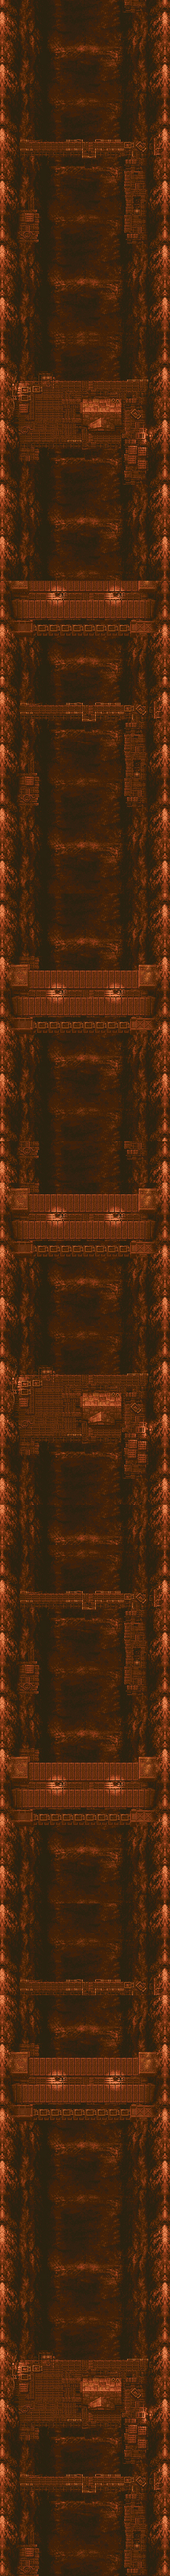
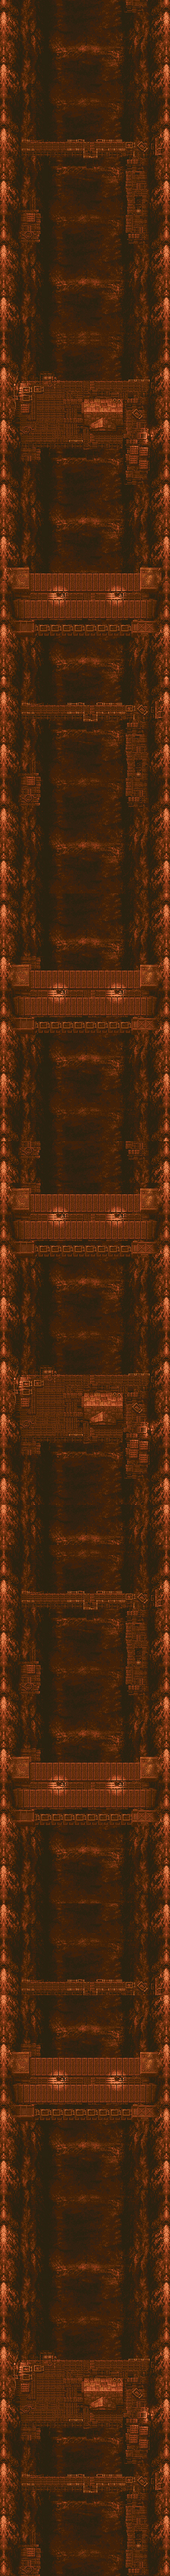
Added PLATFORMS animation

Changed region(s): [[0.0, 0.0, 1.0, 1.0], [0.4487, 0.5912, 0.5385, 0.6535], [0.4786, 0.0311, 0.5385, 0.0622]]

diff --git a/GunBird - CodedDreams/ModuleSceneMine.cpp b/GunBird - CodedDreams/ModuleSceneMine.cpp
@@ -45,6 +45,7 @@ bool ModuleSceneMine::Start()
 	graphics_background_text = App->textures->Load("assets/maps/mine_background.png");
 	graphics_above_background_text = App->textures->Load("assets/maps/above mine_background.png");
 	graphics_above_background_anims_text = App->textures->Load("assets/maps/above_mine_bg_anims.png");
+	graphics_bg_platfroms_text = App->textures->Load("assets/maps/bg_platforms.png");
 
 	App->render->camera.x  = 0;
 	App->render->camera.y = -3210;
@@ -164,7 +165,7 @@ bool ModuleSceneMine::Start()
 	App->enemies->AddEnemy(BOSS1_BASE, 0, 3125);
 	}
 
-	//LEDS AND BLOWS
+	//LEDS AND BLOWS, PLATFROMS
 	{
 		//LED 1
 		upper_led1.PushBack({ 1, 1, 16, 5 });
@@ -229,6 +230,18 @@ bool ModuleSceneMine::Start()
 		upper_blow2.PushBack({ 165, 65, 25, 34 });
 		upper_blow2.speed = 0.2f;
 		upper_blow2.loop = true;
+
+		//PLATFORMS
+		bg_platfroms.PushBack({ 0, 0, 216, 107 });
+		bg_platfroms.PushBack({ 216, 0, 216, 107 });
+		bg_platfroms.PushBack({ 0, 107, 216, 107 });
+		bg_platfroms.PushBack({ 216, 107, 216, 107 });
+		bg_platfroms.PushBack({ 0, 214, 216, 107 });
+		bg_platfroms.PushBack({ 216, 214, 216, 107 });
+		bg_platfroms.PushBack({ 0, 321, 216, 107 });
+		bg_platfroms.PushBack({ 216, 321, 216, 107 });
+		bg_platfroms.speed = 0.05f;
+		bg_platfroms.loop = true;
 	}
 	
 	LOG("Loading music");
@@ -266,6 +279,11 @@ bool ModuleSceneMine::CleanUp()
 		App->textures->Unload(graphics_above_background_anims_text);
 		graphics_above_background_anims_text = nullptr;
 	}
+	if (graphics_bg_platfroms_text != nullptr)
+	{
+		App->textures->Unload(graphics_bg_platfroms_text);
+		graphics_bg_platfroms_text = nullptr;
+	}
 	
 	App->audio->Stop();
 	App->ui->Disable();
@@ -292,7 +310,15 @@ update_status ModuleSceneMine::Update()
 	
 	// Draw everything --------------------------------------	
 	App->render->Blit(graphics_background_text, App->render->camera.x, App->render->camera.y, &background_rect, 0.75f); // back of the room
-	
+	{
+		//PLATFORMS
+		App->render->Blit(graphics_bg_platfroms_text, App->render->camera.x + 6, App->render->camera.y + 773, &bg_platfroms.GetCurrentFrame(), 0.75f);
+		App->render->Blit(graphics_bg_platfroms_text, App->render->camera.x + 6, App->render->camera.y + 1318, &bg_platfroms.GetCurrentFrame(), 0.75f);
+		App->render->Blit(graphics_bg_platfroms_text, App->render->camera.x + 6, App->render->camera.y + 1625, &bg_platfroms.GetCurrentFrame(), 0.75f);
+		App->render->Blit(graphics_bg_platfroms_text, App->render->camera.x + 6, App->render->camera.y + 2405, &bg_platfroms.GetCurrentFrame(), 0.75f);
+		App->render->Blit(graphics_bg_platfroms_text, App->render->camera.x + 6, App->render->camera.y + 2810, &bg_platfroms.GetCurrentFrame(), 0.75f);
+	}
+
 	App->enemies->draw_underlayed = true;
 	App->enemies->Update();
 	App->enemies->draw_underlayed = false;

diff --git a/GunBird - CodedDreams/ModuleSceneMine.h b/GunBird - CodedDreams/ModuleSceneMine.h
@@ -22,6 +22,7 @@ public:
 	SDL_Texture* graphics_background_text = nullptr;
 	SDL_Texture* graphics_above_background_text = nullptr;
 	SDL_Texture* graphics_above_background_anims_text = nullptr;
+	SDL_Texture* graphics_bg_platfroms_text = nullptr;
 
 	SDL_Rect background_rect;
 	SDL_Rect above_background_rect;
@@ -32,6 +33,7 @@ public:
 	Animation upper_led4;
 	Animation upper_blow2;
 	Animation upper_blow1;
+	Animation bg_platfroms;
 
 	float overlay_position;
 	float overlay_speed = 0.09f;
